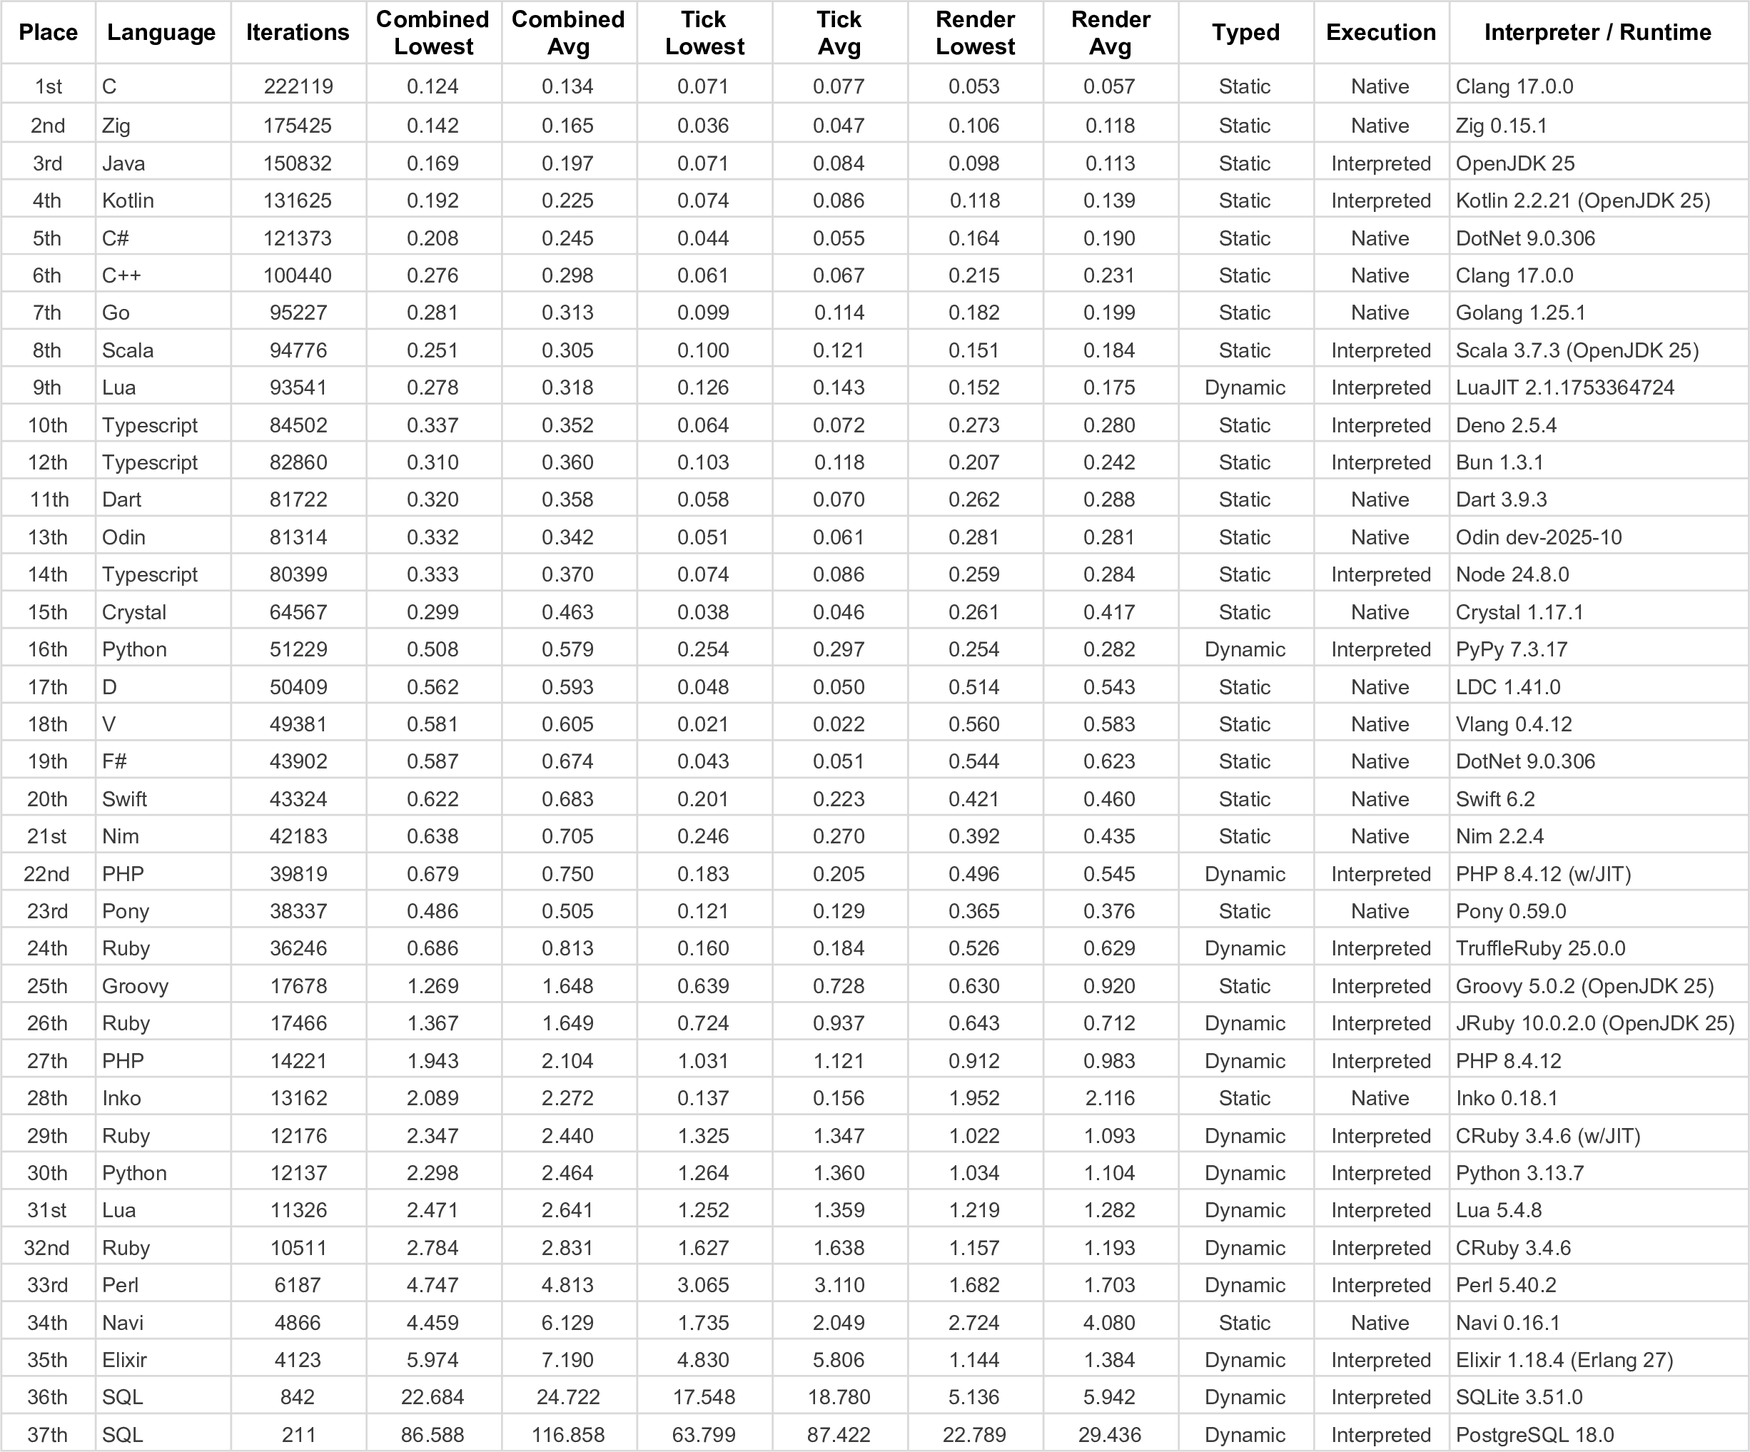
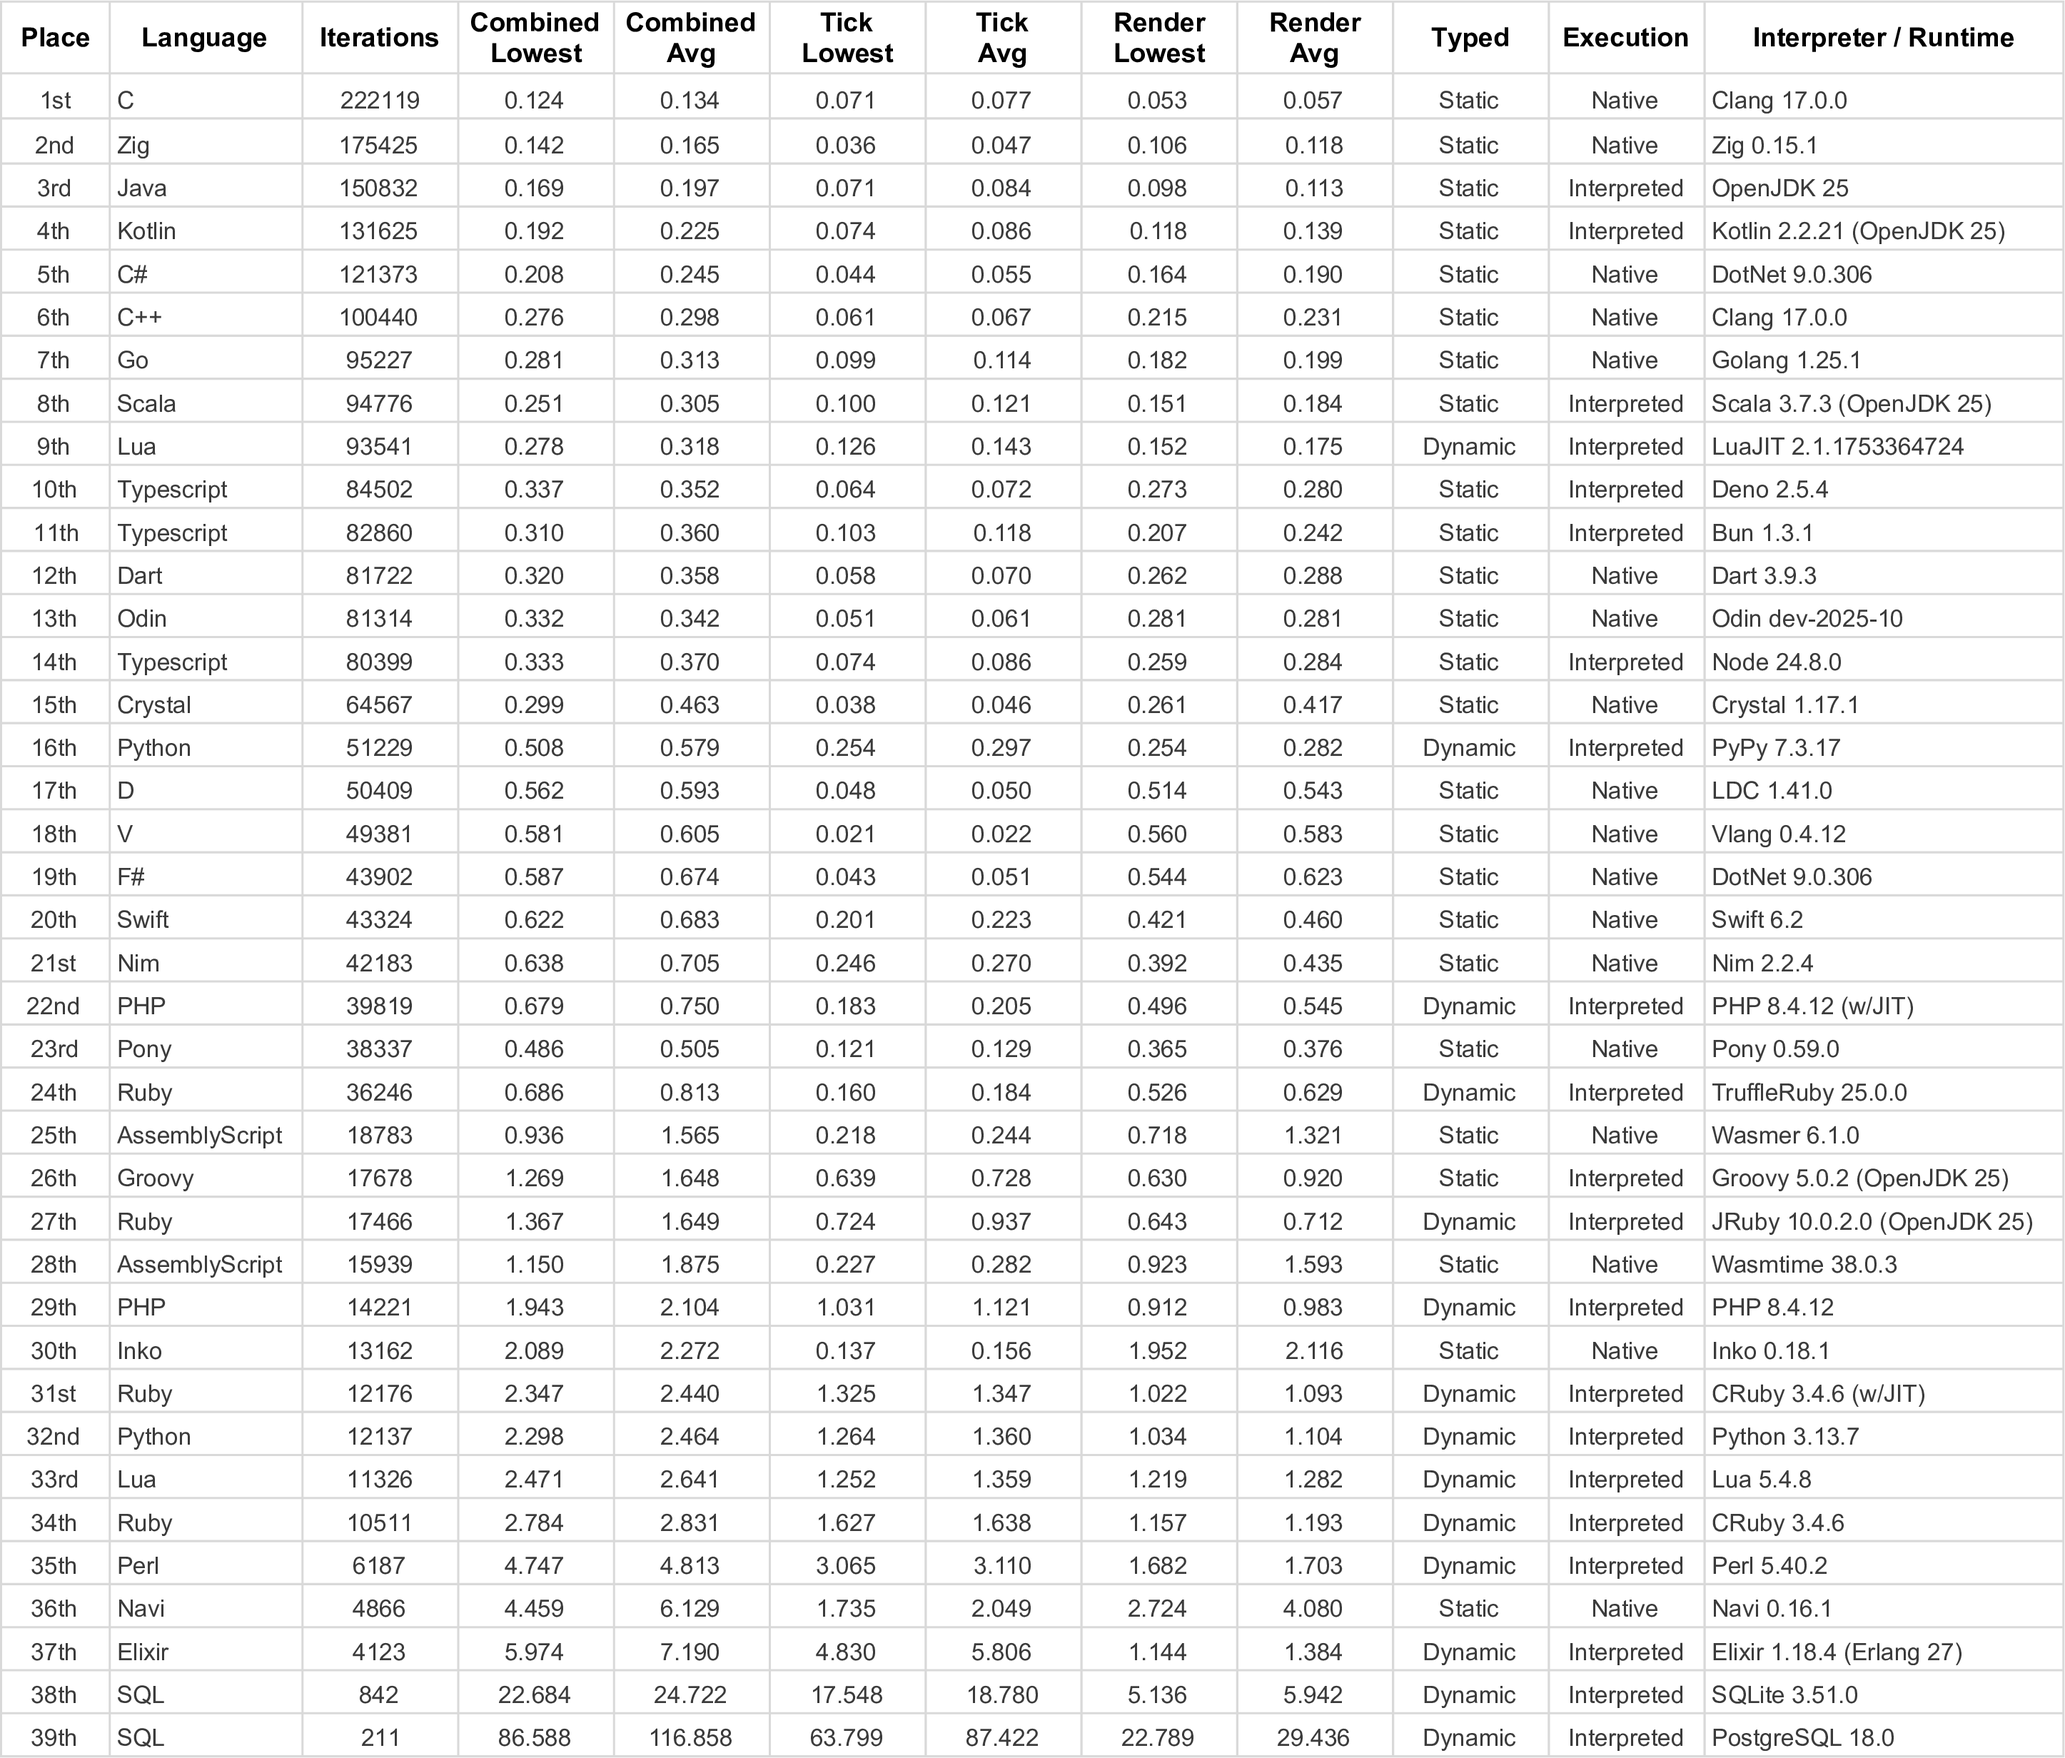
Implementation: AssemblyScript

Changed region(s): [[0.0, 0.0, 1.0, 1.0]]

diff --git a/assemblyscript/assembly/world.ts b/assemblyscript/assembly/world.ts
@@ -1,0 +1,172 @@
+class LocationOccupied extends Error {
+  constructor(message: string) {
+    super(`LocationOccupied(${message})`)
+  }
+}
+
+const DIRECTIONS = [
+  [-1, 1],  [0, 1],  [1, 1], // above
+  [-1, 0],           [1, 0], // sides
+  [-1, -1], [0, -1], [1, -1] // below
+]
+
+export class World {
+  public tick: u32 = 0
+
+  private width: u32
+  private height: u32
+  private cells: Map<string, Cell>
+
+  constructor(width: u32, height: u32) {
+    this.width = width
+    this.height = height
+    this.cells = new Map<string, Cell>()
+
+    this.populate_cells()
+    this.prepopulate_neighbours()
+  }
+
+  public _tick(): void {
+    const cells = this.cells.values()
+    const cellCount = cells.length
+
+    // First determine the action for all cells
+    for (let i = 0; i < cellCount; i++) {
+      const cell = cells.at(i)
+      const aliveNeighbours = this.alive_neighbours_around(cell)
+      if (!cell.alive && aliveNeighbours == 3) {
+        cell.next_state = true
+      } else if (aliveNeighbours < 2 || aliveNeighbours > 3) {
+        cell.next_state = false
+      } else {
+        cell.next_state = cell.alive
+      }
+    }
+
+    // Then execute the determined action for all cells
+    for (let i = 0; i < cellCount; i++) {
+      const cell = cells.at(i)
+      cell.alive = cell.next_state
+    }
+
+    this.tick += 1
+  }
+
+  // Implement first using string concatenation. Then implement any
+  // special string builders, and use whatever runs the fastest
+  public render(): string {
+    // The following works but is slower
+    // let rendering = ""
+    // for (let y: u32 = 0; y < this.height; y++) {
+    //   for (let x: u32 = 0; x < this.width; x++) {
+    //     const cell = this.cell_at(x, y)
+    //     if (cell) {
+    //       rendering += cell.to_char()
+    //     }
+    //   }
+    //   rendering += "\n"
+    // }
+    // return rendering
+
+    // The following was the fastest method
+    let rendering: string[] = []
+    for (let y: u32 = 0; y < this.height; y++) {
+      for (let x: u32 = 0; x < this.width; x++) {
+        const cell = this.cell_at(x, y)
+        if (cell) {
+          rendering.push(cell.to_char())
+        }
+      }
+      rendering.push("\n")
+    }
+    return rendering.join("")
+  }
+
+  private cell_at(x: u32, y: u32): Cell | null {
+    const key = `${x}-${y}`
+    if (this.cells.has(key)) {
+      return this.cells.get(key)
+    } else {
+      return null
+    }
+  }
+
+  private populate_cells(): void {
+    for (let y: u32 = 0; y < this.height; y++) {
+      for (let x: u32 = 0; x < this.width; x++) {
+        const alive = (Math.random() <= 0.2)
+        this.add_cell(x, y, alive)
+      }
+    }
+  }
+
+  private add_cell(x: u32, y: u32, alive: bool = false): Cell {
+    const key = `${x}-${y}`
+    if (this.cell_at(x, y) != null) {
+      throw new LocationOccupied(key)
+    }
+
+    const cell = new Cell(x, y, alive)
+    this.cells.set(key, cell)
+    return cell
+  }
+
+  private prepopulate_neighbours(): void {
+    const cells = this.cells.values()
+    const cellCount = cells.length
+
+    for (let i = 0; i < cellCount; i++) {
+      const cell = cells.at(i)
+
+      for (let j = 0; j < DIRECTIONS.length; j++) {
+        const dir = DIRECTIONS[j]
+        const nx = (<i32>cell.x + dir[0])
+        const ny = (<i32>cell.y + dir[1])
+
+        const neighbour = this.cell_at(nx, ny)
+        if (neighbour) {
+          cell.neighbours.push(neighbour)
+        }
+      }
+    }
+  }
+
+  // Implement first using filter/lambda if available. Then implement
+  // foreach and for. Use whatever implementation runs the fastest
+  private alive_neighbours_around(cell: Cell): u32 {
+    // The following works but is slower
+    // return cell.neighbours.filter(function(neighbour) {
+    //   return neighbour.alive
+    // }).length
+
+    // The following was the fastest method
+    let alive_neighbours: u32 = 0
+    for (let i = 0; i < cell.neighbours.length; i++) {
+      const neighbour = cell.neighbours[i]
+      if (neighbour.alive) {
+        alive_neighbours += 1
+      }
+    }
+    return alive_neighbours
+  }
+}
+
+class Cell {
+  public x: u32
+  public y: u32
+  public alive: bool
+  public next_state: bool
+  public neighbours: Cell[]
+
+  constructor(x: u32, y: u32, alive: bool = false) {
+    this.x = x
+    this.y = y
+    this.alive = alive
+    this.next_state = alive
+    this.neighbours = []
+  }
+
+  public to_char(): string {
+    return this.alive ? 'o' : ' '
+  }
+}

diff --git a/assemblyscript/assembly/index.ts b/assemblyscript/assembly/index.ts
@@ -1,0 +1,70 @@
+import { World } from './world'
+
+class Play {
+  static World_Width: u32 = 150
+  static World_Height: u32 = 40
+
+  public static run(): void {
+    const world = new World(
+      Play.World_Width,
+      Play.World_Height,
+    )
+
+    // TODO: Get this from environment
+    let minimal: bool = true
+
+    if (!minimal) {
+      console.log(world.render())
+    }
+
+    let total_tick: f64 = 0.0
+    let lowest_tick: f64 = 1e18
+    let total_render: f64 = 0.0
+    let lowest_render: f64 = 1e18
+
+    while (true) {
+      let tick_start = performance.now()
+      world._tick()
+      let tick_finish = performance.now()
+      let tick_time = tick_finish - tick_start
+      total_tick += tick_time
+      if (tick_time < lowest_tick) lowest_tick = tick_time
+      let avg_tick = total_tick / <f64>world.tick
+
+      let render_start = performance.now()
+      let rendered = world.render()
+      let render_finish = performance.now()
+      let render_time = render_finish - render_start
+      total_render += render_time
+      if (render_time < lowest_render) lowest_render = render_time
+      let avg_render = total_render / <f64>world.tick
+
+      if (!minimal) {
+        console.log("\u001b[H\u001b[2J")
+      }
+
+      console.log(
+        "#" + world.tick.toString()
+        + " - World Tick (L: " + Play._f(lowest_tick) + "; A: " + Play._f(avg_tick) + ")"
+        + " - Rendering (L: " + Play._f(lowest_render) + "; A: " + Play._f(avg_render) + ")"
+      )
+
+      if (!minimal) {
+        console.log(rendered)
+      }
+    }
+  }
+
+  private static _f(value: f64): string {
+    let rounded = Math.round(value * 1000.0) / 1000.0
+    let parts = rounded.toString().split('.')
+    const whole = parts[0]
+    let frac = parts[1]
+    while (frac.length < 3) {
+      frac = "0" + frac
+    }
+    return `${whole}.${frac}`
+  }
+}
+
+Play.run()

diff --git a/assemblyscript/README.md b/assemblyscript/README.md
@@ -1,0 +1,17 @@
+# AssemblyScript
+
+## Installation
+
+* `brew install assemblyscript`
+
+## Usage
+
+* `npm run asbuild`
+
+### Wasmer
+
+* `wasmer run build/release.wasm`
+
+### Wasmtime
+
+* `wasmtime run build/release.wasm`
